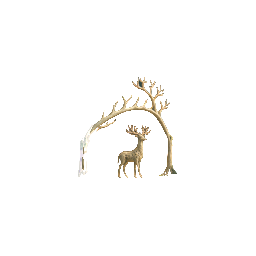
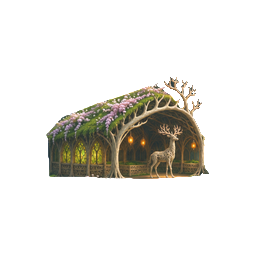
Thornwake: four bad building cuts mended
The owner pointed at the hall's second stage: its hover outline showed the
dome and the arcade as two pieces, with the moss roof missing between them.
BiRefNet takes a moss roof for mossy ground, also on a second look.

Every Thornwake layer was put next to its painting. Four were wrong: the
hall's second and third stage (roof missing), the first white-hart lodge
(only its arch and stag kept, the lodge gone) and the root bastion's den
(a piece of the ledge below attached). root_ravine_matte_patches.py, beside
the packet, adds or removes hand-drawn outlines on those four mattes and
seals the seams; the four layers, hit masks and icons are repackaged, the
other 48 are unchanged.

Checked in the game with each of the four hovered. A scan of all towns' hit
masks also showed three Mireclaw cuts of the same kind (two forts without
their palisade, the upgraded stag ring with three posts); not changed.

Changed region(s): [[0.1875, 0.2812, 0.8125, 0.7188]]

diff --git a/docs/common-town-building-template.md b/docs/common-town-building-template.md
@@ -286,3 +286,5 @@ Thornwake was repainted the same way on 2026-11-10, the last of the six (owner's
 A quality pass followed on 2026-11-10 (slice `town-art-quality-pass-20261110`), after a critical comparison of the six towns from in-game captures with the effects on and off (owner: fix all listed). Haze: the drifting mist was built as long thin streamers to match the bell fjord's painted wisps, and over the bright, detailed paint of Embercourt, Sunvault and Thornwake it read as straight parallel streaks. A layout's `stage_mist` now also takes `shape` (the streamers' length and thickness against the fjord's) and `soft` (0 keeps crisp wisps with fine strands, 1 blends them into haze); those three towns use short thick soft patches at a lower `gain`. Ground: Sunvault's rock was soft with long diagonal smears, Mireclaw's floor soft and featureless after its first repaint, and Veilmourn's slopes covered in fine diagonal hatching and thin fog wisps. Each was repainted in one edit of the whole backdrop without a mask, asking for the same picture in a crisper hand (`sun_cirque_v2.png`, `dusk_fen_v3.png`, `bell_fjord_v3.png`; forms moved by under 1 pixel), and the water, sky and foreground were blended back from the earlier backdrop through a keep mask, so effect and foreground masks still fit; the buildings stay cut against the backdrop they were painted on (`backdrop.painted_on`). A first try with a mask over the land failed: the model re-composed the cliffs and left part of the picture empty, so a ground repaint is never masked. Edges: a layer's soft skirt of painted ground showed as a pale halo once the ground under it had changed, worst in Sunvault, so the three repainted towns cut with a short skirt (`cut.skirt_radius` 4, `skirt_strength` 0.4, against 12 and 0.85). Lodges: ten building stages that blended into their ground were repainted in lighter materials on the backdrop they were first painted on: Thornwake's lash lodge and toll hut, ram run and den, artifact exchange and hall of chronicles (pale wood, bark shingles, bleached horns), and Mireclaw's two storehouses and two spore lodges (pale driftwood, bleached thatch). Measured in the game with the effects off, the share of fine detail a one-pixel blur removes rose from 0.49 to 0.58 in Sunvault, 0.54 to 0.67 in Mireclaw and 0.57 to 0.60 in Veilmourn; the soft edge round buildings fell to about half its area in all three; Sunvault's buildings that blend in fell from 4 to 1 of 29 and Thornwake's from 13 to 11. Mireclaw's dark buildings still read by their lights more than by colour (27 of 29 by the mean-colour measure). Not changed: Veilmourn's older overlaps (its tier-6 pen under the army panel, the shipyard a fifth hidden).
 
 Level ground at the plots followed the same day (slice `town-plot-shelves-20261110`), after the owner found buildings still floating and standing where nothing could stand (Sunvault, Thornwake, Veilmourn). Cause: a building painted into the empty scene brings its own footing, because the painter draws a rock shelf, a turf ledge or a mossy terrace under it. The layer keeps the building alone, so on a cliff face or a slope its base hung over ground that was never level, and the shorter skirts of the quality pass took the last of the painted footing away. The ground now carries the shelf itself, for every stage of a plot and for the empty plot. `tools/town_plot_shelves.py marks` draws a band at the foot of every plot's buildings (the lowest part of all its stages' mattes, smoothed) as the markup of one unmasked edit of the backdrop that asks for level natural ground in each band and for nothing else to change; `blend` takes the edit only near the bands and keeps the water, falls, lamps and foreground of the current backdrop, so the effect and foreground masks still fit. Plots that stand on water or on their own piles get no band (shipyards, Veilmourn's sea forts, sea pen and whale pool, Embercourt's serpent pen). Shipped for Sunvault (`sun_cirque_v3.png`), Veilmourn (`bell_fjord_v4.png`), Thornwake (`root_ravine_v2.png`) and Embercourt (`lock_gorge_v2.png`); the building layers are unchanged, byte for byte. Mireclaw and Brasshollow were tried and left as they were: stilt houses in a fen and sheds on flat ash already stand, and the edit made them no better. A new town paints its empty backdrop with level ground at every plot from the start.
+
+Four Thornwake cuts were mended on 2026-11-11 (slice `town-thornwake-cuts-20261111`), after the owner pointed at the hall's second stage: its hover outline showed the dome and the arcade as two pieces with the moss roof missing between them. BiRefNet takes a moss roof for mossy ground, also on a second look. The hall's second and third stage lacked that roof, the first white-hart lodge was only its arch and stag with the lodge itself gone, and the root bastion's den carried a piece of the ledge below it. `root_ravine_matte_patches.py`, beside the packet, adds or removes hand-drawn outlines on those four BiRefNet mattes and seals the seams; it runs once after `tools/town_plot_mattes.py`. Found by putting every Thornwake layer next to its painting. A scan of all towns' hit masks for deep bites also showed three Mireclaw cuts of the same kind, not changed: the first and third fort keep their gate towers but lose the palisade, and the upgraded stag ring keeps three of its posts.

diff --git a/PLAN.md b/PLAN.md
@@ -54,6 +54,7 @@ None open.
 
 ## Open work
 
+- `town-thornwake-cuts-20261111` (in progress): Owner: the hall's cut is bad in Thornwake (moss roof missing between dome and arcade). Mend the mattes BiRefNet got wrong: hall stages 2 and 3, first white-hart lodge, root bastion den; root_ravine_matte_patches.py, layers repackaged. See `docs/common-town-building-template.md`.
 - `native-rules-phase7-14-campaign-20261023` (pending): port the campaign runtime to C++, together with the campaign rework (D-f). See `docs/native-rules-engine-transition.md`.
 - `content-authored-scenarios-obsolete-20261005` (paused): hold on all authored maps, scenarios and campaigns until the owner selects their rework. See `docs/authored-scenarios-obsolete.md`.
 - `playable-alpha-scenario-set-10184` (paused): Phase 5 umbrella: several scenarios and skirmish setups played end to end, with save/load, outcomes, AI pressure and a viable economy. Waits for the authored-content rework.
